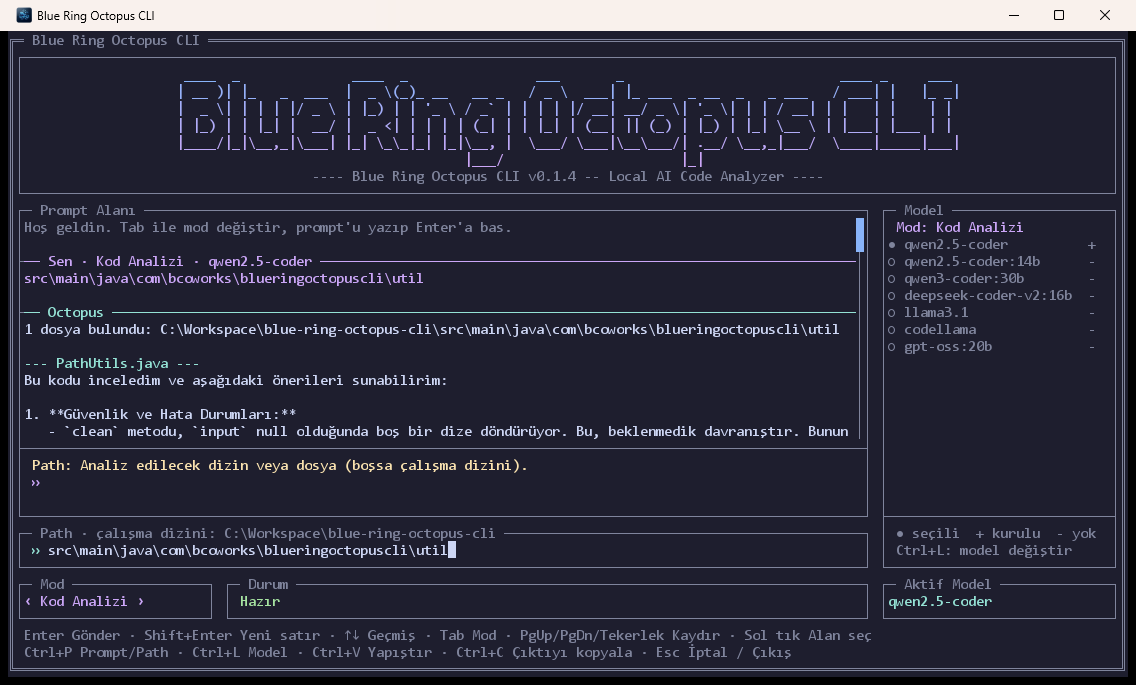
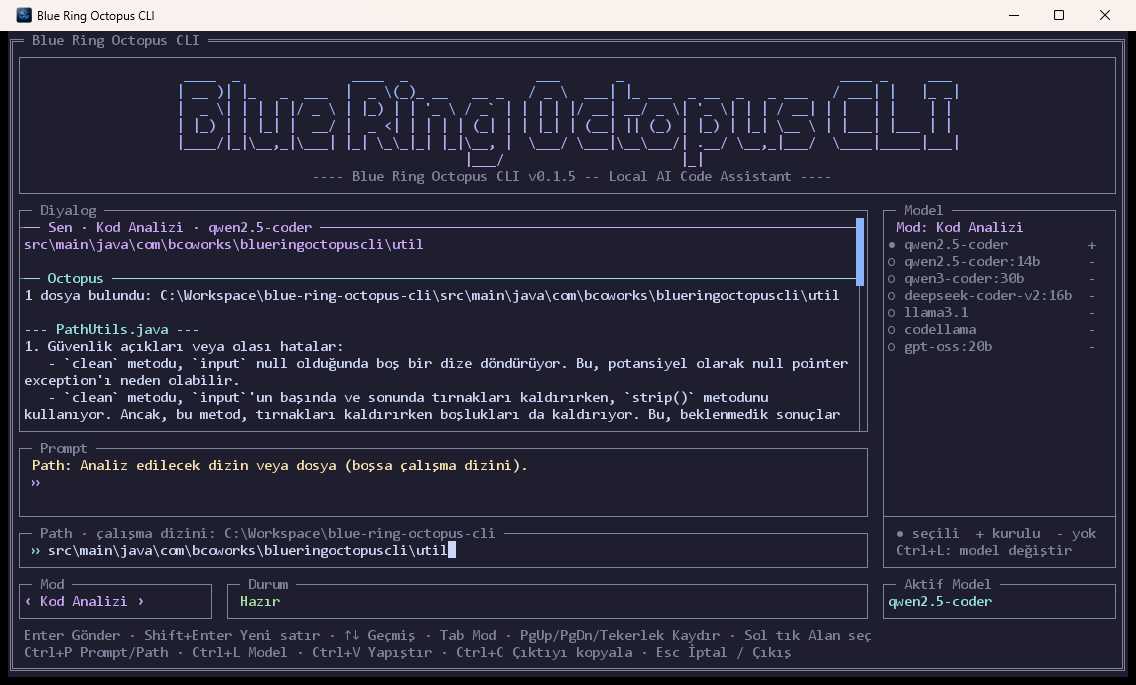
feat: separate Diyalog and Prompt boxes, fix mouse hit-testing
The conversation (now titled Diyalog, empty at start) and the prompt input are separate boxes. The Kod Generate prompt hint is reworded and the banner subtitle reads 'Local AI Code Assistant'.

Mouse: Lanterna's global positions are shifted by the window content offset and do not include the border inset for components inside a Border, so clicks on a box's border or hint line landed in the wrong box. Hit-testing now corrects for both (measured at run time), the whole Prompt/Path boxes react to a click, and fractional wheel events from touchpads are accumulated instead of ignored.

Changed region(s): [[0.0308, 0.3066, 0.7394, 0.6745], [0.7394, 0.3679, 0.7702, 0.4292], [0.647, 0.2453, 0.6778, 0.2759]]

diff --git a/src/main/java/com/bcoworks/blueringoctopuscli/tui/MainWindow.java b/src/main/java/com/bcoworks/blueringoctopuscli/tui/MainWindow.java
@@ -70,6 +70,9 @@ final class MainWindow implements MouseSupport.Handler {
     private final BasicWindow window = new BasicWindow("Blue Ring Octopus CLI");
     private final Panel bannerPanel = new Panel(linear(Direction.VERTICAL, 0));
     private final DialogView dialog = new DialogView();
+    private Border dialogBox;
+    private Border promptBox;
+    private Border pathBox;
     private final PromptArea promptInput = new PromptArea();
     private final TextBox pathInput = new TextBox(new TerminalSize(40, 1));
     private final Label hintLabel = new Label("");
@@ -183,7 +186,8 @@ final class MainWindow implements MouseSupport.Handler {
     // ---------------------------------------------------------------- mouse
 
     /**
-     * Sol tık: yalnızca prompt ve path alanlarına odaklanır. Başka hiçbir şey fareyle tetiklenmez.
+     * Sol tık: prompt ya da path kutusuna (kenarlık ve ipucu dahil) odaklanır; alanın içindeyse imleç de oraya gider.
+     * Başka hiçbir şey fareyle tetiklenmez.
      */
     @Override
     public void onClick(int column, int row) {
@@ -191,19 +195,23 @@ final class MainWindow implements MouseSupport.Handler {
             if (dialogOpen.get()) {
                 return;
             }
-            if (isOver(promptInput, column, row)) {
+            if (isOverBox(promptBox, column, row)) {
                 focusField(promptInput);
-                promptInput.placeCaretAt(column - promptInput.getGlobalPosition().getColumn(),
-                        row - promptInput.getGlobalPosition().getRow());
-            } else if (isOver(pathInput, column, row)) {
+                if (isOver(promptInput, true, column, row)) {
+                    int[] at = originOf(promptInput, true);
+                    promptInput.placeCaretAt(column - at[0], row - at[1]);
+                }
+            } else if (isOverBox(pathBox, column, row)) {
                 focusField(pathInput);
-                placePathCaret(column - pathInput.getGlobalPosition().getColumn());
+                if (isOver(pathInput, true, column, row)) {
+                    placePathCaret(column - originOf(pathInput, true)[0]);
+                }
             }
         });
     }
 
     /**
-     * Tekerlek: imlecin üstündeki çıktı ya da prompt alanını kaydırır (negatif yukarı).
+     * Tekerlek: imlecin üstündeki diyalog ya da prompt kutusunu kaydırır (negatif yukarı).
      */
     @Override
     public void onScroll(int column, int row, int lines) {
@@ -211,18 +219,35 @@ final class MainWindow implements MouseSupport.Handler {
             if (dialogOpen.get()) {
                 return;
             }
-            if (isOver(dialog, column, row)) {
+            if (isOverBox(dialogBox, column, row)) {
                 dialog.scroll(lines);
-            } else if (isOver(promptInput, column, row)) {
+            } else if (isOverBox(promptBox, column, row)) {
                 promptInput.scroll(lines);
             }
         });
     }
 
-    private static boolean isOver(Component component, int column, int row) {
+    /**
+     * Bileşenin ekranda çizildiği sol-üst hücre (sütun, satır). Lanterna'nın global konumları çizimden sapar, bkz.
+     * {@link MouseSupport#visualOrigin}. Border'ın kendisi için insideBorder=false, içindekiler için true verilir.
+     */
+    private int[] originOf(Component component, boolean insideBorder) {
         TerminalPosition at = component.getGlobalPosition();
+        TerminalPosition frame = window.getComponent().getGlobalPosition();
+        // diyalog kutusunun içindeki DialogView ile kutunun konumu aynıysa, Lanterna kenarlık girintisini eklemiyor
+        boolean insetMissing = dialog.getGlobalPosition().equals(dialogBox.getGlobalPosition());
+        return MouseSupport.visualOrigin(new int[]{at.getColumn(), at.getRow()},
+                new int[]{frame.getColumn(), frame.getRow()}, insideBorder, insetMissing);
+    }
+
+    private boolean isOver(Component component, boolean insideBorder, int column, int row) {
+        int[] at = originOf(component, insideBorder);
         TerminalSize size = component.getSize();
-        return MouseSupport.contains(at.getColumn(), at.getRow(), size.getColumns(), size.getRows(), column, row);
+        return MouseSupport.contains(at[0], at[1], size.getColumns(), size.getRows(), column, row);
+    }
+
+    private boolean isOverBox(Border box, int column, int row) {
+        return isOver(box, false, column, row);
     }
 
     private void focusField(Interactable field) {
@@ -256,28 +281,26 @@ final class MainWindow implements MouseSupport.Handler {
         Border bannerBox = bannerHolder.withBorder(Borders.singleLine());
         bannerBox.setLayoutData(fill());
 
+        // Diyalog: istekler ve yanıtlar. Prompt girişinden ayrı bir kutudur.
+        dialogBox = dialog.withBorder(Borders.singleLine(" Diyalog "));
+        dialogBox.setLayoutData(grow());
+
+        // Prompt: ipucu satırı + çok satırlı giriş
         Panel promptContent = new Panel(linear(Direction.VERTICAL, 0));
-        dialog.setLayoutData(grow());
-        promptContent.addComponent(dialog);
-
-        Separator separator = new Separator(Direction.HORIZONTAL);
-        separator.setLayoutData(fill());
-        promptContent.addComponent(separator);
-
         hintLabel.setForegroundColor(OctopusTheme.YELLOW);
         promptContent.addComponent(hintLabel);
-
         promptContent.addComponent(inputRow(OctopusTheme.MAUVE, promptInput));
-        Border promptBox = promptContent.withBorder(Borders.singleLine(" Prompt Alanı "));
-        promptBox.setLayoutData(grow());
+        promptBox = promptContent.withBorder(Borders.singleLine(" Prompt "));
+        promptBox.setLayoutData(fill());
 
-        Border pathBox = inputRow(OctopusTheme.TEAL, pathInput)
+        pathBox = inputRow(OctopusTheme.TEAL, pathInput)
                 .withBorder(Borders.singleLine(" Path · çalışma dizini: " + shorten(System.getProperty("user.dir")) + " "));
         pathBox.setLayoutData(fill());
 
-        // --- orta: solda diyalog + prompt + path, sağda model paneli (yalnızca bu satırın yüksekliği kadar)
+        // --- orta: solda diyalog / prompt / path kutuları, sağda model paneli (bu satırın yüksekliği kadar)
         Panel left = new Panel(linear(Direction.VERTICAL, 0));
         left.setLayoutData(grow());
+        left.addComponent(dialogBox);
         left.addComponent(promptBox);
         left.addComponent(pathBox);
 
@@ -336,7 +359,6 @@ final class MainWindow implements MouseSupport.Handler {
         refreshMode();
         refreshInstalledAsync();
         setStatus(" Hazır", OctopusTheme.GREEN);
-        dialog.addNote("Hoş geldin. Tab ile mod değiştir, prompt'u yazıp Enter'a bas.");
     }
 
     private Border buildModelPanel() {

diff --git a/src/main/java/com/bcoworks/blueringoctopuscli/tui/MouseSupport.java b/src/main/java/com/bcoworks/blueringoctopuscli/tui/MouseSupport.java
@@ -32,10 +32,46 @@ final class MouseSupport {
     }
 
     /**
+     * Dokunmatik yüzey ve ince taneli (hassas) tekerlekler küçük, kesirli adımlar gönderir; tamsayı {@code getWheelRotation()}
+     * bunlarda 0 kalır. Kesirli adımlar biriktirilir, birikim bir satırı geçince o kadar satır kaydırılır.
+     */
+    static final class WheelAccumulator {
+
+        private double pending;
+
+        /**
+         * @param notches {@code MouseWheelEvent.getPreciseWheelRotation()} değeri (negatif yukarı)
+         * @return kaydırılacak tam satır sayısı (0 olabilir)
+         */
+        int add(double notches) {
+            pending += notches * LINES_PER_WHEEL_NOTCH;
+            int whole = (int) pending;
+            pending -= whole;
+            return whole;
+        }
+    }
+
+    /**
      * Piksel konumunu hücre indeksine çevirir (negatif konumlar 0'a çekilir).
      */
     static int cell(int pixel, int cellSize) {
         return cellSize <= 0 ? 0 : Math.max(0, pixel) / cellSize;
+    }
+
+    /**
+     * Lanterna'nın getGlobalPosition() değerinden ekranda çizildiği gerçek konumu çıkarır. İki sapma var:
+     * (1) tüm konumlar, pencere içeriğinin kaydırılmış sayılması yüzünden çerçevenin (ekranda (0,0)) bildirdiği kadar
+     * kaymıştır; (2) Border içindeki bileşenlerin konumuna kenarlık girintisi (1,1) eklenmez. İkincisi her sürümde
+     * olmayabilir, bu yüzden çağıran tarafından ölçülerek verilir.
+     *
+     * @param reported          bileşenin getGlobalPosition() değeri
+     * @param frameReported     ekranın (0,0) hücresine denk gelen en dış çerçevenin getGlobalPosition() değeri
+     * @param insideBorder      bileşen bir Border'ın içinde mi (Border'ın kendisi için false)
+     * @param borderInsetMissing Lanterna Border içindekilere girintiyi eklemiyor mu
+     */
+    static int[] visualOrigin(int[] reported, int[] frameReported, boolean insideBorder, boolean borderInsetMissing) {
+        int extra = insideBorder && borderInsetMissing ? 1 : 0;
+        return new int[]{reported[0] - frameReported[0] + extra, reported[1] - frameReported[1] + extra};
     }
 
     /**
@@ -51,6 +87,7 @@ final class MouseSupport {
     static void attach(SwingTerminalFrame frame, int cellWidth, int cellHeight, Handler handler) {
         for (Component child : frame.getContentPane().getComponents()) {
             if (child instanceof SwingTerminal terminal) {
+                WheelAccumulator wheel = new WheelAccumulator();
                 MouseAdapter listener = new MouseAdapter() {
                     @Override
                     public void mousePressed(MouseEvent e) {
@@ -61,10 +98,9 @@ final class MouseSupport {
 
                     @Override
                     public void mouseWheelMoved(MouseWheelEvent e) {
-                        int notches = e.getWheelRotation();
-                        if (notches != 0) {
-                            handler.onScroll(cell(e.getX(), cellWidth), cell(e.getY(), cellHeight),
-                                    notches * LINES_PER_WHEEL_NOTCH);
+                        int lines = wheel.add(e.getPreciseWheelRotation());
+                        if (lines != 0) {
+                            handler.onScroll(cell(e.getX(), cellWidth), cell(e.getY(), cellHeight), lines);
                         }
                     }
                 };

diff --git a/src/test/java/com/bcoworks/blueringoctopuscli/tui/MouseSupportTest.java b/src/test/java/com/bcoworks/blueringoctopuscli/tui/MouseSupportTest.java
@@ -2,6 +2,7 @@ package com.bcoworks.blueringoctopuscli.tui;
 
 import org.junit.jupiter.api.Test;
 
+import static org.junit.jupiter.api.Assertions.assertArrayEquals;
 import static org.junit.jupiter.api.Assertions.assertEquals;
 import static org.junit.jupiter.api.Assertions.assertFalse;
 import static org.junit.jupiter.api.Assertions.assertTrue;
@@ -36,5 +37,40 @@ class MouseSupportTest {
     @Test
     void emptyAreaContainsNothing() {
         assertFalse(MouseSupport.contains(0, 0, 0, 0, 0, 0));
+    }
+
+    @Test
+    void wheelAccumulatorTurnsWholeNotchesIntoLines() {
+        MouseSupport.WheelAccumulator wheel = new MouseSupport.WheelAccumulator();
+
+        assertEquals(3, wheel.add(1.0));
+        assertEquals(-3, wheel.add(-1.0));
+    }
+
+    @Test
+    void wheelAccumulatorCollectsTouchpadFractions() {
+        MouseSupport.WheelAccumulator wheel = new MouseSupport.WheelAccumulator();
+
+        assertEquals(0, wheel.add(0.25)); // 0.75 satır birikti
+        assertEquals(1, wheel.add(0.25)); // 1.5 -> 1 satır, 0.5 artar
+        assertEquals(0, wheel.add(0.1));  // 0.8
+        assertEquals(1, wheel.add(0.1));  // 1.1 -> 1
+    }
+
+    @Test
+    void visualOriginRemovesTheWindowOffsetFromBoxes() {
+        // pencere içeriği (1,1) kaymış: çerçeve (1,1) bildiriyor, kutu (2,25) bildiriyor -> ekranda (1,24)
+        assertArrayEquals(new int[]{1, 24},
+                MouseSupport.visualOrigin(new int[]{2, 25}, new int[]{1, 1}, false, true));
+    }
+
+    @Test
+    void visualOriginAddsTheMissingBorderInsetForInnerComponents() {
+        // kutunun içindeki alan: Lanterna girintiyi eklemedi -> (+1,+1) tamamlanır
+        assertArrayEquals(new int[]{2, 25},
+                MouseSupport.visualOrigin(new int[]{2, 25}, new int[]{1, 1}, true, true));
+        // girinti eklenen bir Lanterna sürümünde ek düzeltme yapılmaz
+        assertArrayEquals(new int[]{2, 25},
+                MouseSupport.visualOrigin(new int[]{3, 26}, new int[]{1, 1}, true, false));
     }
 }

diff --git a/src/main/java/com/bcoworks/blueringoctopuscli/context/AppMode.java b/src/main/java/com/bcoworks/blueringoctopuscli/context/AppMode.java
@@ -8,7 +8,7 @@ public enum AppMode {
             "Bu modda prompt gerekmez, Enter ile analizi başlat.",
             "Analiz edilecek dizin veya dosya (boşsa çalışma dizini)."),
     KOD_GENERATE("Kod Generate",
-            "Ne yazılsın? Örn: ürünler için bir Spring REST controller",
+            "Üretilecek Java sınıfını anlatın. Örn: ürünleri listeleyen bir Spring REST controller",
             "Kayıt yolu, isteğe bağlı (boşsa generated/<SınıfAdı>.java)."),
     DOKUMAN_HAZIRLAMA("Döküman Hazırlama",
             "Bu mod henüz hazır değil.",

diff --git a/src/main/java/com/bcoworks/blueringoctopuscli/tui/BannerArt.java b/src/main/java/com/bcoworks/blueringoctopuscli/tui/BannerArt.java
@@ -22,7 +22,7 @@ final class BannerArt {
 
     private BannerArt(List<String> full, String version) {
         this.full = full;
-        this.compact = List.of("BLUE RING OCTOPUS CLI  ·  Local AI Code Analyzer  ·  v" + version);
+        this.compact = List.of("BLUE RING OCTOPUS CLI  ·  Local AI Code Assistant  ·  v" + version);
         this.fullWidth = full.stream().mapToInt(String::length).max().orElse(0);
     }
 

diff --git a/docs/USAGE.md b/docs/USAGE.md
@@ -39,20 +39,24 @@ java --enable-native-access=ALL-UNNAMED -jar blue-ring-octopus-cli.jar
 ┌ Blue Ring Octopus CLI ───────────────────────────────────────────────────────┐
 │ ┌ banner ──────────────────────────────────────────────────────────────────┐ │
 │ └──────────────────────────────────────────────────────────────────────────┘ │
-│ ┌ Prompt area ────────────────────────────────────────┐ ┌ Model ──────────┐ │
-│ │ conversation + multi-line input                     │ │ model for the   │ │
+│ ┌ Diyalog ────────────────────────────────────────────┐ ┌ Model ──────────┐ │
+│ │ requests and answers of the session                 │ │ model for the   │ │
 │ └─────────────────────────────────────────────────────┘ │ current mode    │ │
-│ ┌ Path ───────────────────────────────────────────────┐ │ ● selected      │ │
-│ └─────────────────────────────────────────────────────┘ └─────────────────┘ │
+│ ┌ Prompt ─────────────────────────────────────────────┐ │ ● selected      │ │
+│ │ hint + multi-line input                             │ │ + installed     │ │
+│ └─────────────────────────────────────────────────────┘ │ - not installed │ │
+│ ┌ Path ───────────────────────────────────────────────┐ └─────────────────┘ │
+│ └─────────────────────────────────────────────────────┘                     │
 │ ┌ Mode ┐ ┌ Status / progress ───────────────────────────┐ ┌ Active model ──┐ │
 │ key hints                                                                    │
 └──────────────────────────────────────────────────────────────────────────────┘
 ```
 
-The upper part of the Prompt area is a **conversation**: every request appears under a "Sen" (you) heading with the
-mode and model, and the answer under "Octopus". The history of the session stays in memory (up to 5000 lines) and is
-gone when you quit. The view follows the newest message; scroll up to read earlier ones and it stops following until you
-scroll back to the bottom.
+The **Diyalog** box is a conversation: every request appears under a "Sen" (you) heading with the mode and model, and
+the answer under "Octopus". It starts empty. The history of the session stays in memory (up to 5000 lines) and is gone
+when you quit. The view follows the newest message; scroll up to read earlier ones and it stops following until you
+scroll back to the bottom. The **Prompt** box below it is where you type; the line above the input tells what the
+current mode expects.
 
 On Windows the UI opens in its own window (the title is *Blue Ring Octopus CLI*); closing it with the **X** button
 asks for confirmation. On Linux and macOS it draws inside the current terminal, so use a terminal with true-colour
@@ -72,12 +76,12 @@ and UTF-8 support.
 | <kbd>Ctrl</kbd>+<kbd>C</kbd> | Copy the output of the last run to the clipboard |
 | <kbd>PgUp</kbd> / <kbd>PgDn</kbd> | Scroll the conversation while typing |
 | Mouse wheel | Over the conversation: scroll it. Over the prompt: scroll a long prompt without moving the caret |
-| Left click | Focus the Prompt or Path field and place the caret where you clicked |
+| Left click | On the Prompt or Path box: focus it (clicking inside the text also places the caret) |
 | <kbd>Esc</kbd> | While a task runs: ask to cancel it. Otherwise: ask to exit |
 
 Typing `exit` (or `cikis`) in the prompt and pressing <kbd>Enter</kbd> also quits.
 
-**Mouse.** Only three things respond to the mouse, on purpose: the wheel over the output, the wheel over a long prompt, and a left click on the Prompt or Path field. Everything else (modes, the model list, dialogs) stays on the keyboard. Mouse support currently exists in the Windows window only; in a Linux/macOS terminal the mouse keeps its normal behaviour, so you can still select and copy text with it.
+**Mouse.** Only three things respond to the mouse, on purpose: the wheel over the Diyalog box, the wheel over a long prompt, and a left click on the Prompt or Path box. Touchpads (smooth, fractional scrolling) work too. Everything else (modes, the model list, dialogs) stays on the keyboard. Mouse support currently exists in the Windows window only; in a Linux/macOS terminal the mouse keeps its normal behaviour, so you can still select and copy text with it.
 
 ## Modes
 

diff --git a/CHANGELOG.md b/CHANGELOG.md
@@ -19,12 +19,21 @@ contain breaking changes.
 
 ### Changed
 
+- The conversation and the prompt input are now separate boxes: **Diyalog** (formerly part of "Prompt Alanı") and **Prompt**.
+  The Diyalog starts empty.
+- The banner subtitle reads "Local AI Code Assistant".
+- The prompt hint of the **Kod Generate** mode is reworded.
 - The project version no longer carries a `-SNAPSHOT` suffix (the banner shows the version as it is), and the version in
   `pom.xml` is bumped with every fix or change to the product.
 - New layout: the banner spans the full window width and the model panel is only as tall as the prompt and path
   fields, which leaves the banner more room.
 - <kbd>Ctrl</kbd>+<kbd>C</kbd> now copies the last output instead of asking to cancel or exit; the old
   <kbd>Ctrl</kbd>+<kbd>O</kbd> shortcut is removed. <kbd>Esc</kbd> cancels the running task or asks to exit.
+
+### Fixed
+
+- Mouse: the whole Prompt and Path boxes (borders and hint line included) react to a left click, and touchpads and
+  smooth-scrolling mice now scroll the Diyalog (fractional wheel events were ignored before).
 
 ## [0.1.3] - 2026-10-06
 
